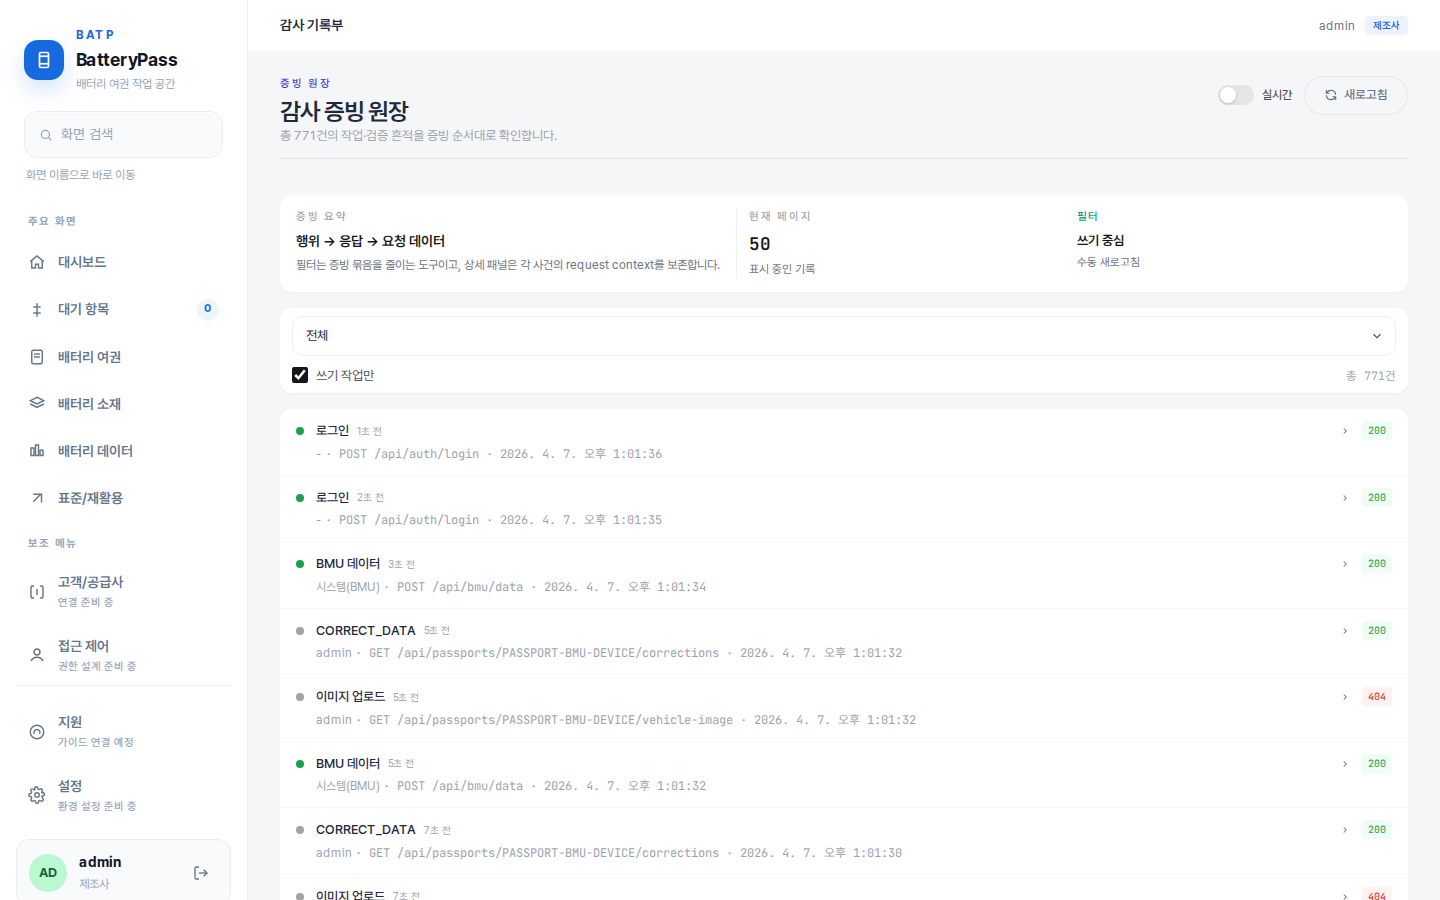
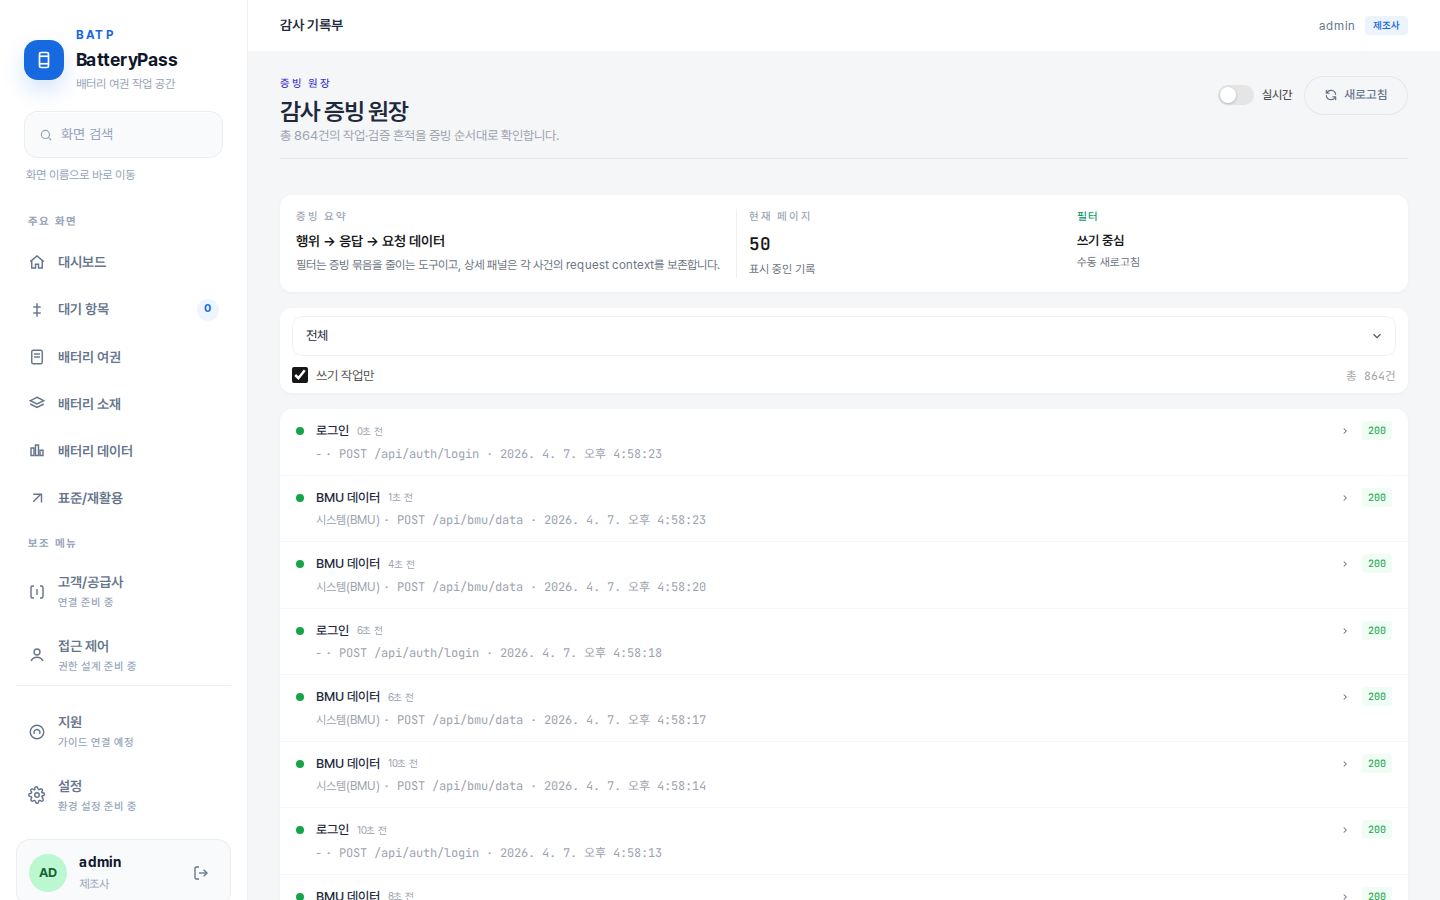
test(battery-passport): make login field locator robust to locale placeholder

diff --git a/e2e-tests/tests/battery-passport.spec.js b/e2e-tests/tests/battery-passport.spec.js
@@ -83,7 +83,7 @@ test.describe('3. 프론트엔드 로그인', () => {
     await page.waitForTimeout(2000);
 
     // 로그인 폼 확인
-    const userInput = page.locator('input[placeholder="아이디를 입력하세요"]');
+    const userInput = page.locator('input[placeholder*="아이디"]');
     await expect(userInput).toBeVisible({ timeout: 5000 });
 
     // 로그인

diff --git a/wiki/blockchain/activity-log.md b/wiki/blockchain/activity-log.md
@@ -43,6 +43,38 @@ tags: [blockchain, log]
 - RequestMaintenance/RequestAnalysis는 EVManufacturer 권한이 비즈니스상 맞음 (Passport 세션 확인)
 - 외부 레포(claw-code, system-prompts)는 블록체인 세션에 직접 적용할 내용 없음
 
+## Session 1 continued (2026-04-07)
+
+### 작업 내용
+- EVManufacturer RBAC 완화: MANUFACTURED 상태 여권도 조회 가능하도록 변경
+  - `buildPassportQuery` — EVMfg 쿼리에 MANUFACTURED OR 조건 추가
+  - `checkPassportAccess` — EVMfg에 MANUFACTURED 상태 접근 허용
+  - 커밋: `6a6a55b`
+- evBinderMsp `omitempty` 제거 — Fabric contract API 스키마 검증 오류 해결
+  - MANUFACTURED 여권에 evBinderMsp 필드 생략 → required 위반 에러
+  - 커밋: `6af5007`
+- 체인코드 재배포: v1.1 → v1.2 → v1.3 (sequence 3)
+- 재배포 스크립트 `upgrade_chaincode.sh` 작성
+- wiki 보충: architecture.md (Fabric 네트워크 상세, 체인코드 함수 분류, RBAC 매트릭스), terminology.md (Fabric 용어 7개)
+
+### 변경 파일
+- `chaincode/passport-contract/passport_contract.go` — RBAC 완화 + omitempty 제거
+- `upgrade_chaincode.sh` — 체인코드 재배포 자동화 스크립트
+- `wiki/common/architecture.md` — Fabric 상세 + RBAC 매트릭스
+- `wiki/common/terminology.md` — Fabric 인프라 용어 추가
+- `wiki/blockchain/overview.md` — 세션 범위 + 현황 보충
+
+### 미완료
+- TPS KPI 달성 작업 (읽기 1500+, 쓰기 150+)
+- passport-network/ Fabric 인프라 최적화
+- chaincode/ 전체 코드 리뷰 (아직 미착수)
+
+### 교훈
+- 체인코드 재배포는 4 peer × (install + approve) + commit = 작업량 많음 → 스크립트 필수
+- `omitempty`가 Fabric contract API 스키마 검증과 충돌할 수 있음 — 선택적 필드라도 빈 값은 포함시키는 게 안전
+- RBAC 변경 시 닭과 달걀 문제 주의 (EVMfg가 바인딩 전 여권을 봐야 바인딩 가능)
+- 배포 스크립트가 없으면 재배포 절차 자체를 잊어버릴 수 있음
+
 <!--
 ## Session N 템플릿
 